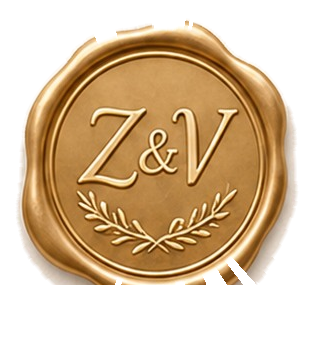
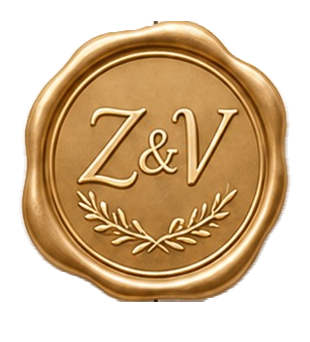
Mühür maskesi ve hareket ipuçlarını düzelt

Changed region(s): [[0.0581, 0.3216, 0.9581, 0.9064], [0.4065, 0.0585, 0.6387, 0.0877], [0.2903, 0.0877, 0.3774, 0.117]]

diff --git a/style.css b/style.css
@@ -616,13 +616,13 @@ main::before{
 }
 
 .invitation-content.first-visit-nudge{
-  animation:firstVisitNudge 1.45s cubic-bezier(.35,.05,.2,1);
+  animation:firstVisitNudge 3.8s cubic-bezier(.35,.05,.2,1) infinite;
 }
 
 @keyframes firstVisitNudge{
-  0%,100%{translate:0 0}
-  42%{translate:0 -20px}
-  68%{translate:0 -20px}
+  0%,24%,100%{translate:0 0}
+  44%,62%{translate:0 -20px}
+  82%{translate:0 0}
 }
 .invitation-lead{
   margin:0 0 clamp(24px,6vh,54px);
@@ -928,7 +928,13 @@ main::before{
   margin:28px 0 0;
   font:clamp(36px,9vw,56px)/1 "Great Vibes",cursive;
 }
-.closing-names span{color:var(--gold)}
+.closing-names span{
+  color:var(--gold);
+  font-family:"Cormorant Garamond",Georgia,serif;
+  font-size:.78em;
+  font-style:normal;
+  font-weight:500;
+}
 .photo-content{--content-scale:.9}
 .photo-icon{
   display:block;

diff --git a/script.js b/script.js
@@ -170,9 +170,6 @@ function showFirstVisitHint(page){
 
     hintedPages.add(page);
     content.classList.add("first-visit-nudge");
-    content.addEventListener("animationend", () => {
-      content.classList.remove("first-visit-nudge");
-    }, {once:true});
   }, 1100);
 
   pendingPageHints.set(page, timer);
